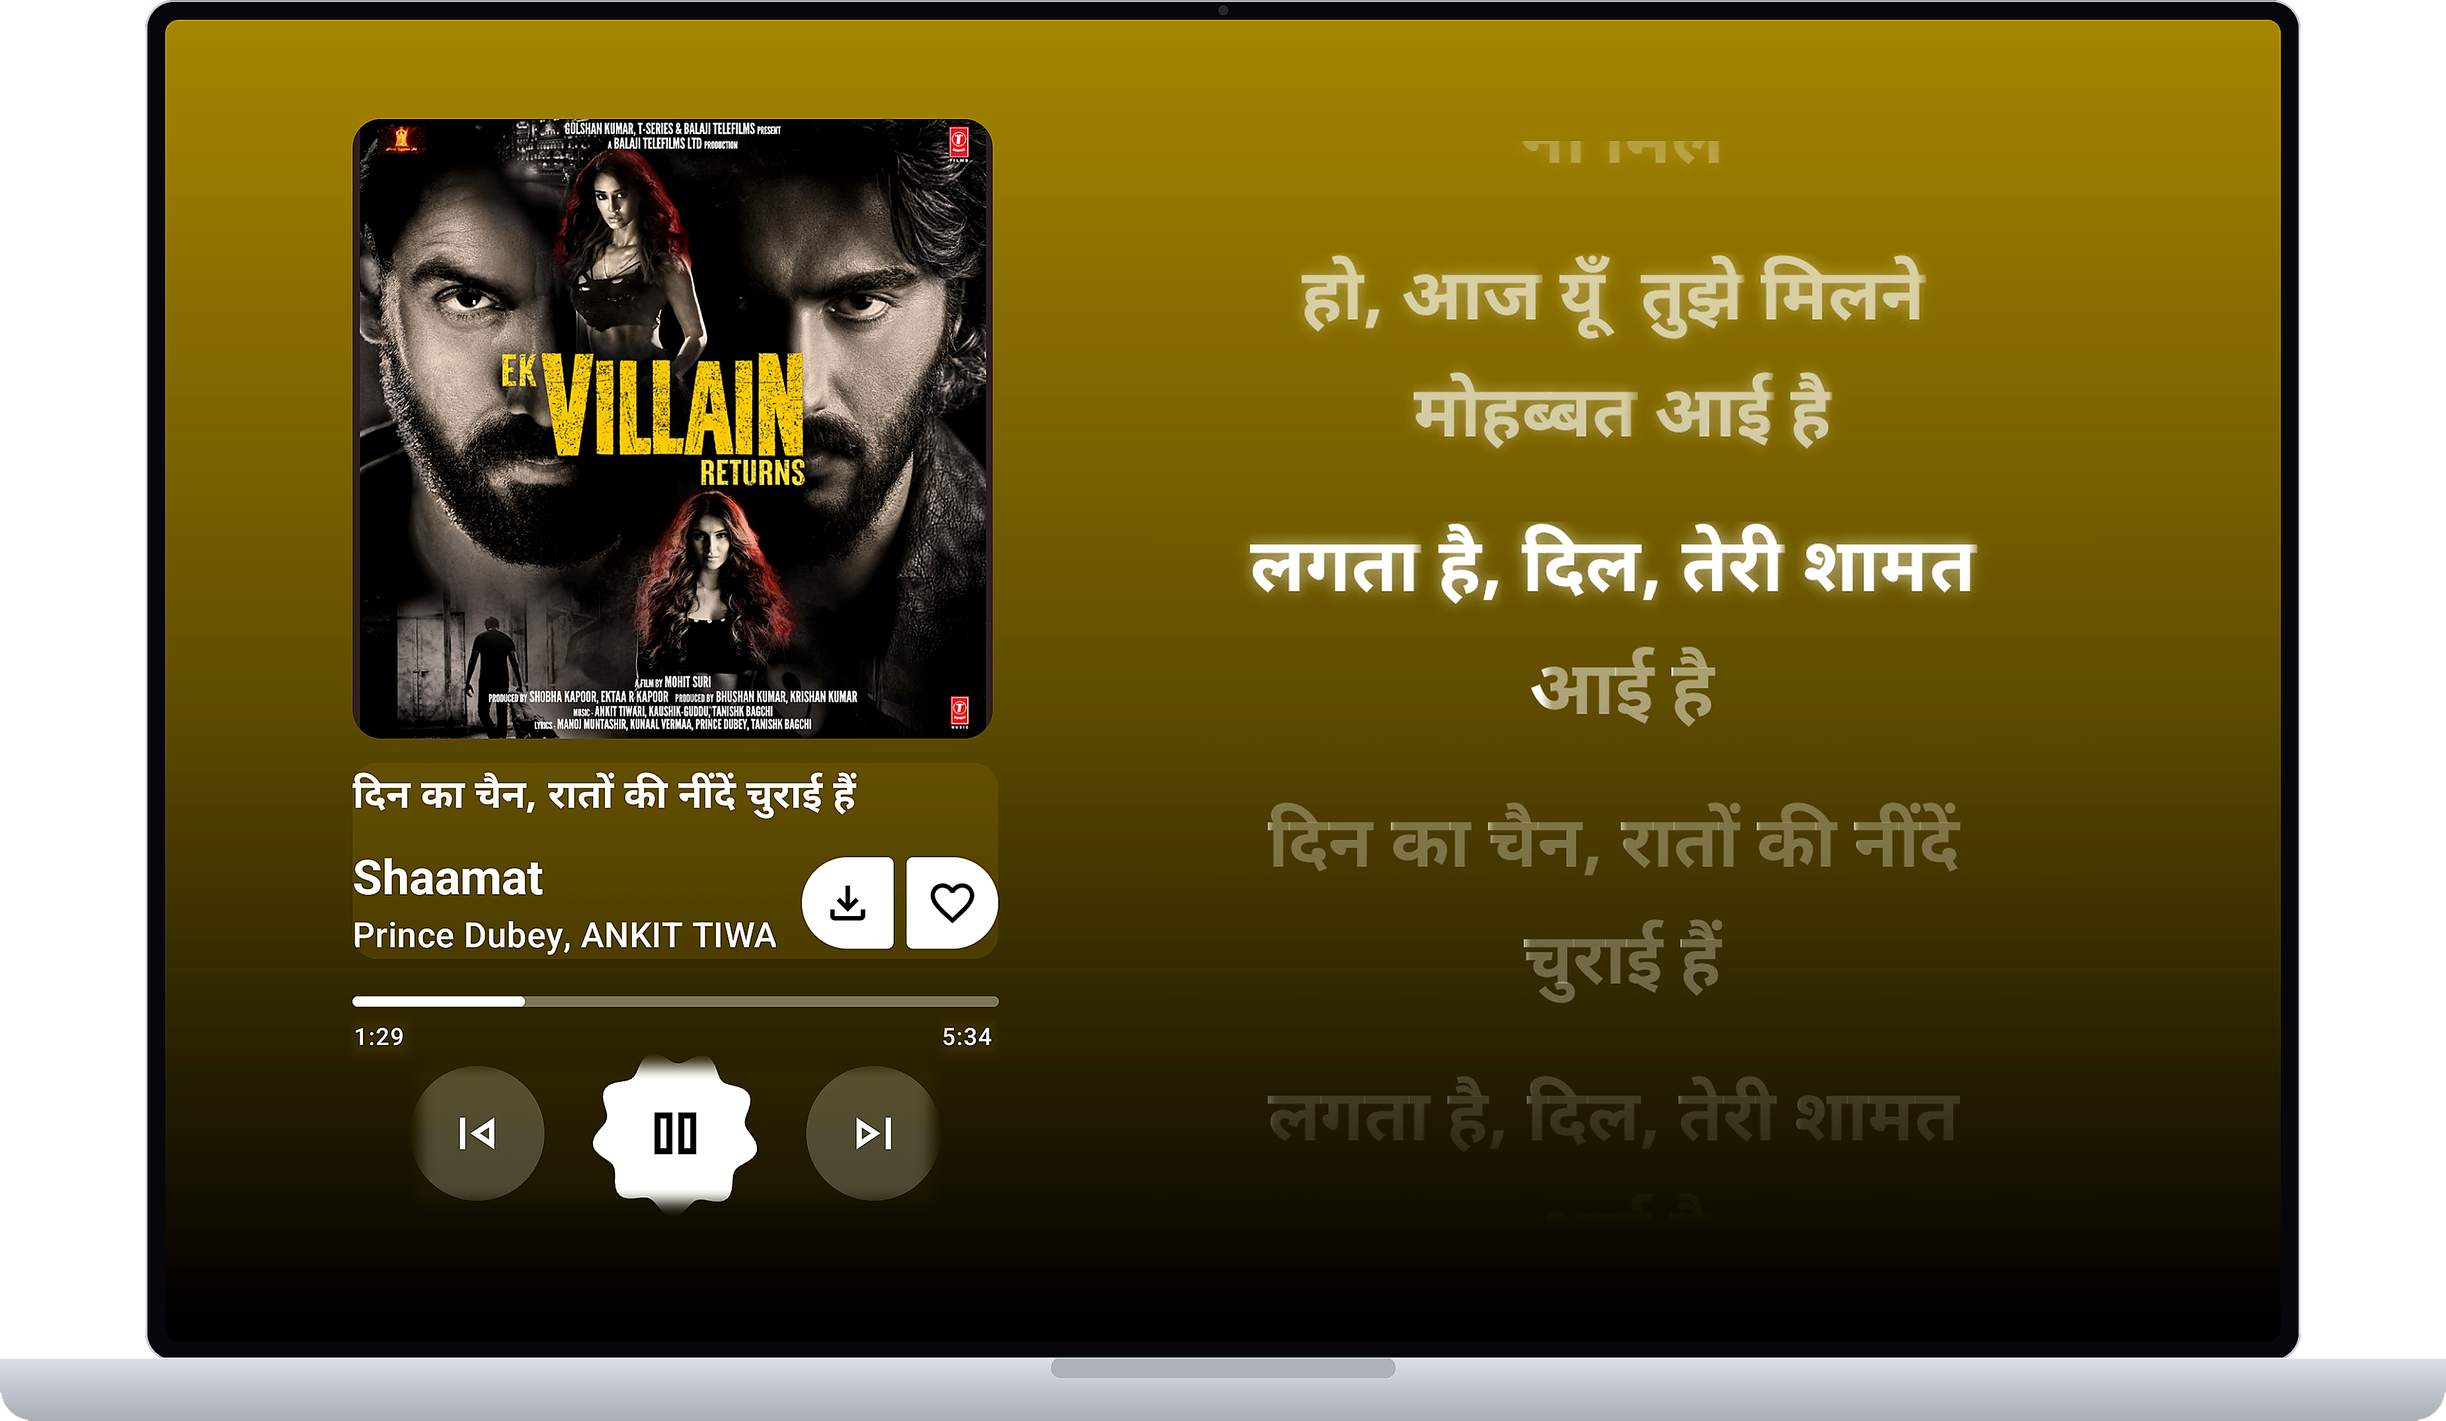
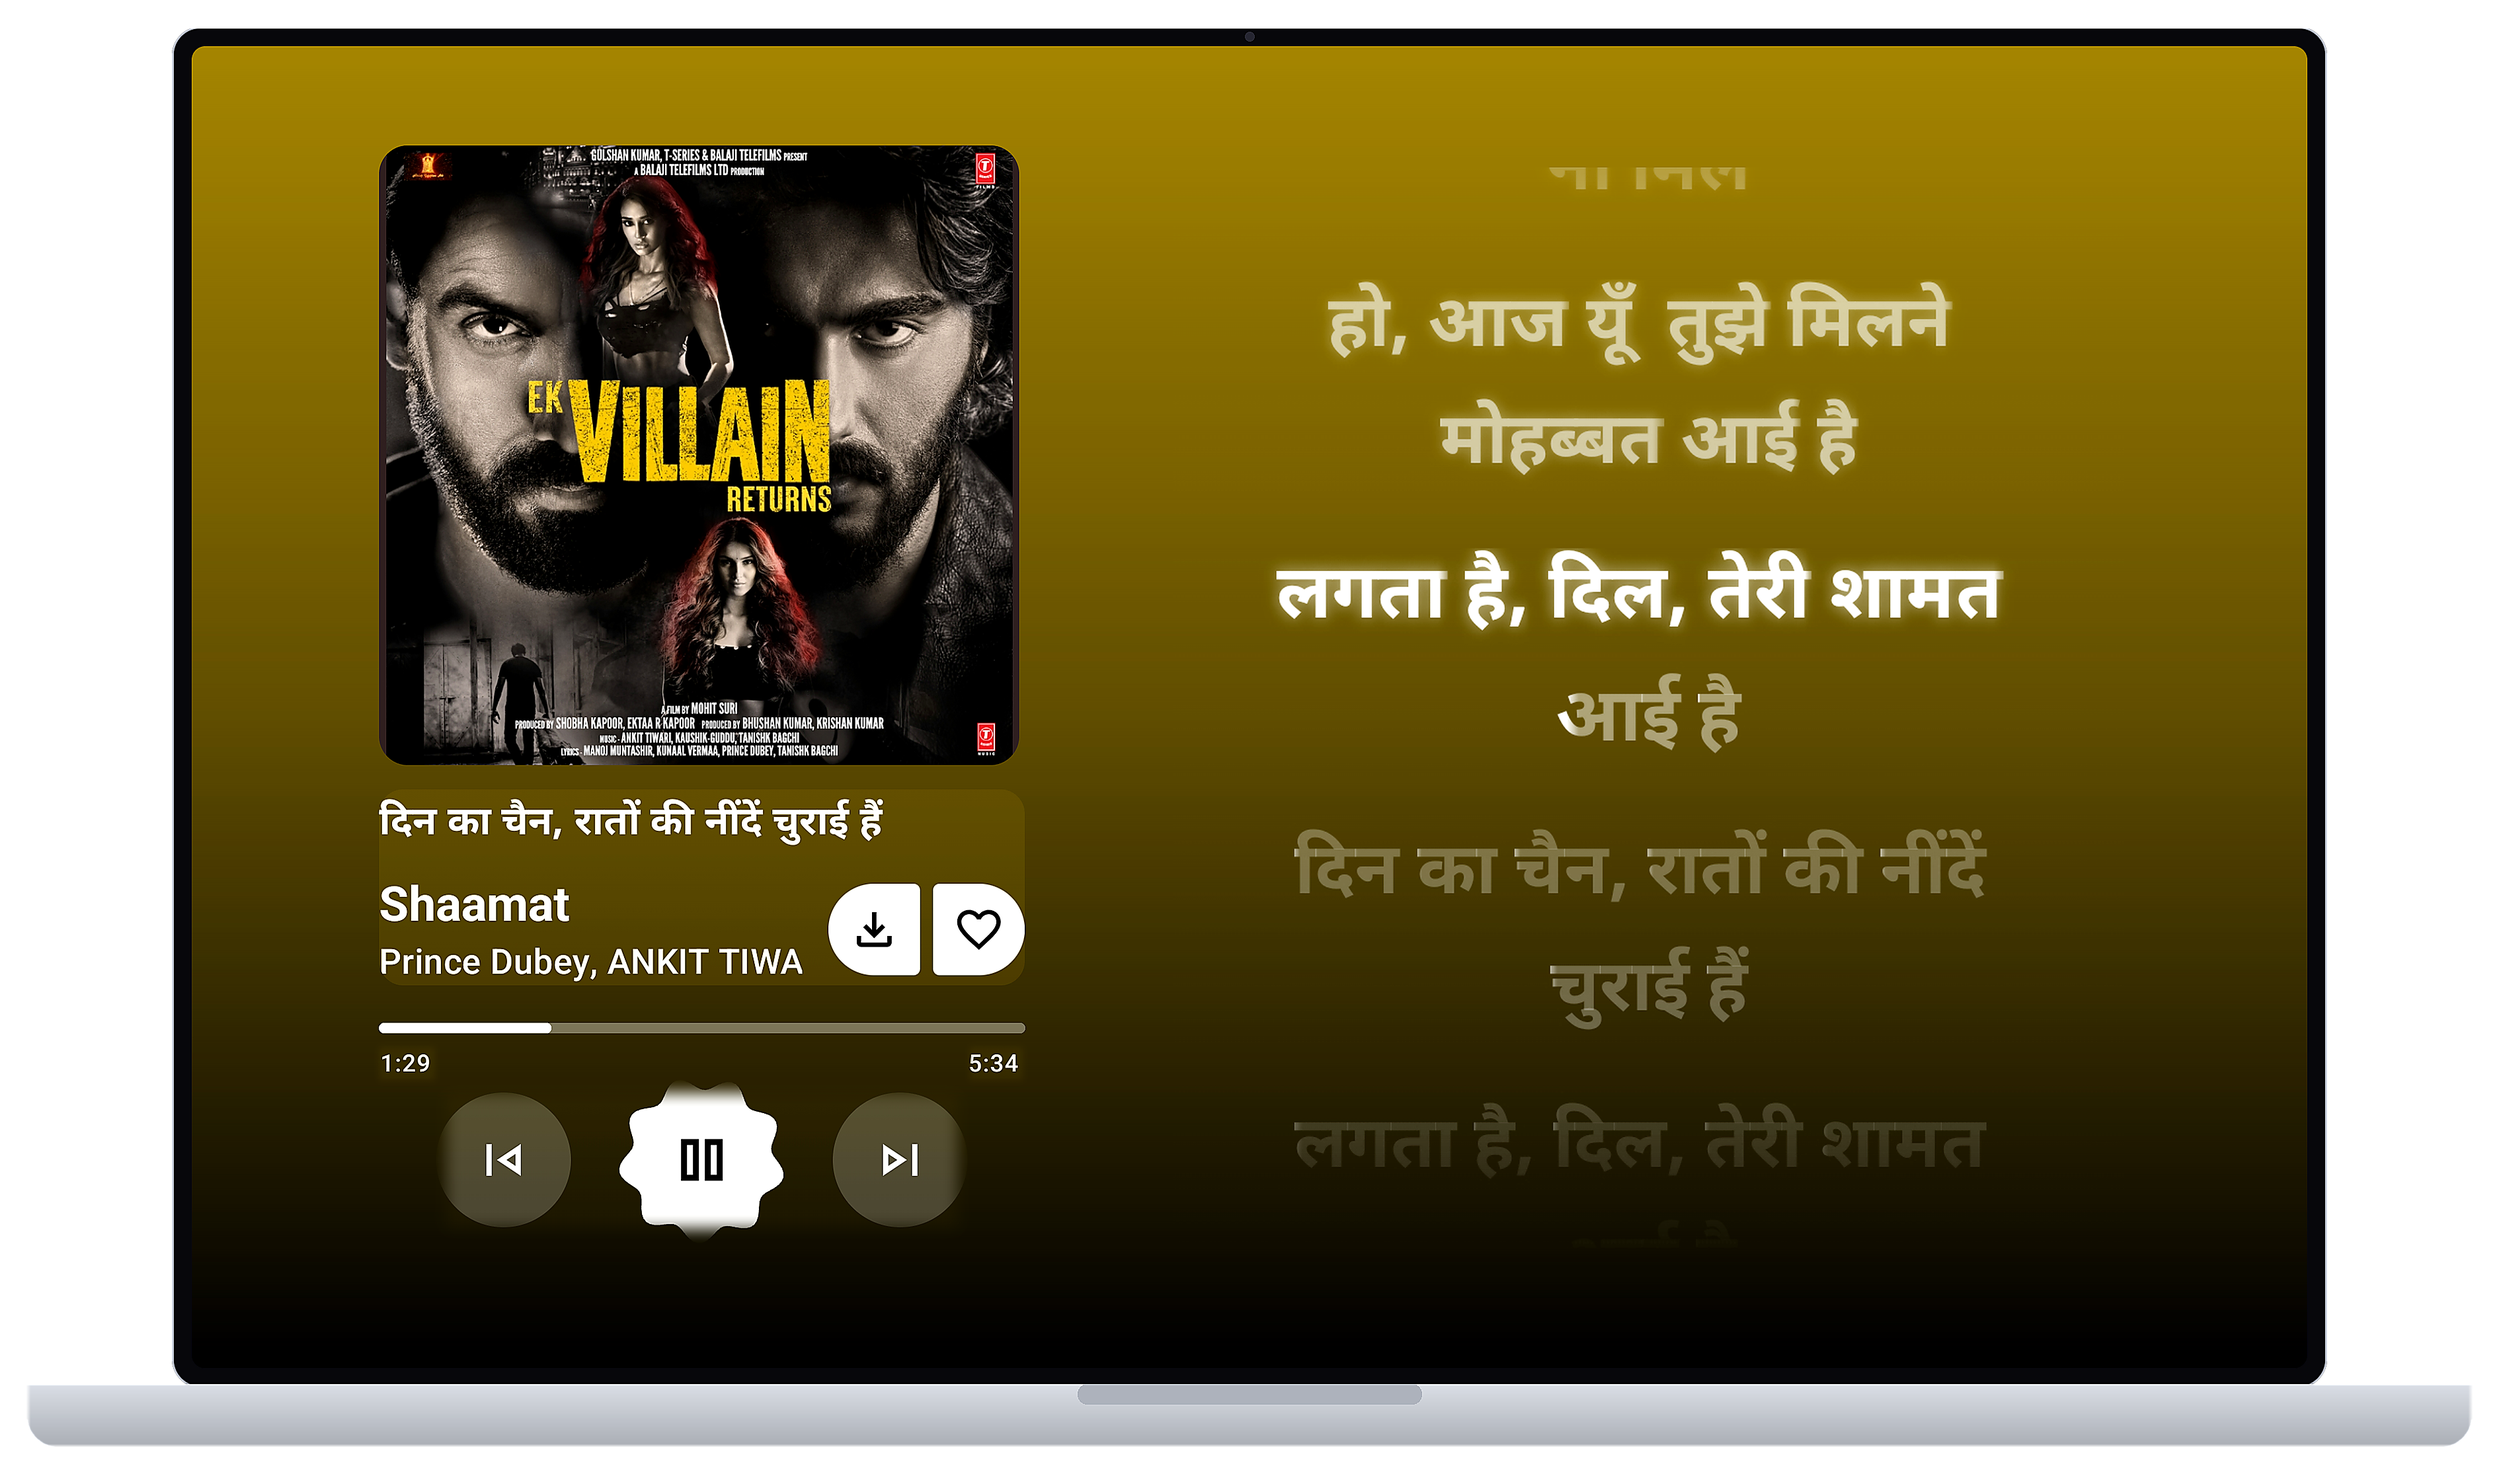
fix(ui): balance mobile hero spacing, prevent button overlap, and update desktop mockup

diff --git a/index.html b/index.html
@@ -92,7 +92,7 @@
   }
   .hero__visual {
     width: 100% !important;
-    margin-top: 2.5em !important;
+    margin-top: 1.3em !important;
     margin-bottom: 2em !important;
   }
 }
@@ -513,6 +513,54 @@ img.pop-up__button-svg {
 
 <style id="muzi-desktop-mockup-styles">
   /* MUZI PC Desktop Edition Clean Minimalist Styling (Matches Mobile) */
+  .exclusive,
+  .exclusive.is--bg-white {
+    background-color: #ffffff !important;
+    clip-path: none !important;
+    -webkit-clip-path: none !important;
+    border: none !important;
+    outline: none !important;
+    box-shadow: none !important;
+    overflow: visible !important;
+  }
+  .exclusive__container,
+  .exclusive__inner,
+  .exclusive__content,
+  .exclusive-slider,
+  .exclusive-slider__collection {
+    border: none !important;
+    outline: none !important;
+    box-shadow: none !important;
+    background: transparent !important;
+  }
+  .exclusive-slider__list {
+    overflow: visible !important;
+    overflow-x: visible !important;
+    scrollbar-width: none !important;
+    -ms-overflow-style: none !important;
+    padding: 0 !important;
+    margin: 0 !important;
+    border: none !important;
+    outline: none !important;
+    box-shadow: none !important;
+    scroll-snap-type: none !important;
+    display: flex !important;
+    justify-content: center !important;
+    align-items: center !important;
+  }
+  .exclusive-slider__list::-webkit-scrollbar {
+    display: none !important;
+    width: 0 !important;
+    height: 0 !important;
+  }
+  .exclusive-slider__list-item {
+    width: 100% !important;
+    max-width: 100% !important;
+    border: none !important;
+    outline: none !important;
+    box-shadow: none !important;
+    scroll-snap-align: none !important;
+  }
   .exclusive-slider__item-outer {
     width: 1040px !important;
     max-width: 95% !important;
@@ -528,6 +576,7 @@ img.pop-up__button-svg {
     background: transparent !important;
     background-color: transparent !important;
     border: none !important;
+    outline: none !important;
     box-shadow: none !important;
   }
   .exclusive-slider .exclusive-slider__item {
@@ -535,6 +584,8 @@ img.pop-up__button-svg {
     margin: 0 auto !important;
     position: relative !important;
     z-index: 2 !important;
+    border: none !important;
+    outline: none !important;
   }
   .exclusive-slider .exclusive-slider__item-inner {
     width: 100% !important;
@@ -543,6 +594,8 @@ img.pop-up__button-svg {
     align-items: center !important;
     justify-content: center !important;
     position: relative !important;
+    border: none !important;
+    outline: none !important;
   }
   .exclusive-slider .books-slider__item-bg {
     display: none !important;
@@ -557,15 +610,20 @@ img.pop-up__button-svg {
     align-items: center !important;
     justify-content: center !important;
     padding: 0 !important;
+    border: none !important;
+    outline: none !important;
+    box-shadow: none !important;
   }
   .exclusive-slider .books-slider__item-cover {
     width: 100% !important;
     max-width: 950px !important;
-    aspect-ratio: 3700 / 2150 !important;
+    aspect-ratio: 3780 / 2230 !important;
     height: auto !important;
     background: transparent !important;
     box-shadow: none !important;
     border-radius: 0 !important;
+    border: none !important;
+    outline: none !important;
     margin: 0 auto 1.5rem !important;
     display: flex !important;
     justify-content: center !important;
@@ -577,13 +635,16 @@ img.pop-up__button-svg {
     height: auto !important;
     object-fit: contain !important;
     border-radius: 0 !important;
-    image-rendering: -webkit-optimize-contrast !important;
-    filter: drop-shadow(0 25px 50px rgba(0,0,0,0.45)) !important;
+    border: none !important;
+    outline: none !important;
+    box-shadow: none !important;
+    filter: drop-shadow(0 18px 24px rgba(0,0,0,0.16)) !important;
   }
   .exclusive-slider .books-slider__item-content {
     background: transparent !important;
     box-shadow: none !important;
     border: none !important;
+    outline: none !important;
     padding: 0 !important;
     width: 100% !important;
     display: flex !important;
@@ -624,6 +685,12 @@ img.pop-up__button-svg {
     .exclusive-slider__item-outer {
       padding: 10px 10px 30px !important;
     }
+    .exclusive-slider .books-slider__item-cover {
+      margin: 0 auto 1rem !important;
+    }
+    .exclusive-slider .books-slider__item-img {
+      filter: drop-shadow(0 12px 18px rgba(0,0,0,0.15)) !important;
+    }
   }
 
   /* 1. Remove Menu Hamburger button completely */
@@ -649,20 +716,20 @@ img.pop-up__button-svg {
   /* 3. Move Stream sound content up on mobile so it looks structured and eliminates unused space */
   @media screen and (max-width: 991px) {
     .hero__text-outer {
-      top: 4.2em !important;
+      top: 2.5em !important;
       right: 1.25em !important;
     }
     .hero__content {
-      padding-top: 8em !important;
+      padding-top: 4.4em !important;
     }
   }
   @media screen and (max-width: 479px) {
     .hero__text-outer {
-      top: 3.5em !important;
+      top: 2em !important;
       right: 1em !important;
     }
     .hero__content {
-      padding-top: 7em !important;
+      padding-top: 3.8em !important;
     }
   }
 </style>
@@ -682,16 +749,16 @@ img.pop-up__button-svg {
     position: relative !important;
     left: 0 !important;
     right: 0 !important;
-    margin: 0 0 2rem 0 !important;
+    margin: 1rem 0 !important;
     border-radius: 2.5em !important;
-    -webkit-clip-path: inset(0 round 2.5em) !important;
-    clip-path: inset(0 round 2.5em) !important;
+    -webkit-clip-path: none !important;
+    clip-path: none !important;
     background-color: #ff2994 !important;
     box-sizing: border-box !important;
     overflow: hidden !important;
     z-index: 10 !important;
-    padding-top: 3.2rem !important;
-    padding-bottom: 3.2rem !important;
+    padding-top: 2.2rem !important;
+    padding-bottom: 2.2rem !important;
   }
   .genre__container,
   .genre__container.u-container {
@@ -725,7 +792,7 @@ img.pop-up__button-svg {
     padding-bottom: 0 !important;
   }
   .genre__easter-egg {
-    margin-top: 1.8rem !important;
+    margin-top: 1.4rem !important;
     margin-bottom: 0 !important;
     padding-top: 0 !important;
     padding-bottom: 0 !important;
@@ -804,12 +871,12 @@ img.pop-up__button-svg {
     }
     .genre,
     .genre.is--bright-pink {
-      margin: 0 0 2rem 0 !important;
-      padding-top: 3.2rem !important;
-      padding-bottom: 3.2rem !important;
+      margin: 1rem 0 !important;
+      padding-top: 2.2rem !important;
+      padding-bottom: 2.2rem !important;
       border-radius: 2.5em !important;
-      -webkit-clip-path: inset(0 round 2.5em) !important;
-      clip-path: inset(0 round 2.5em) !important;
+      -webkit-clip-path: none !important;
+      clip-path: none !important;
     }
     .genre__list {
       margin-top: 0 !important;
@@ -818,7 +885,7 @@ img.pop-up__button-svg {
       padding-bottom: 0 !important;
     }
     .genre__easter-egg {
-      margin-top: 1.8rem !important;
+      margin-top: 1.4rem !important;
       margin-bottom: 0 !important;
       padding-top: 0 !important;
       padding-bottom: 0 !important;
